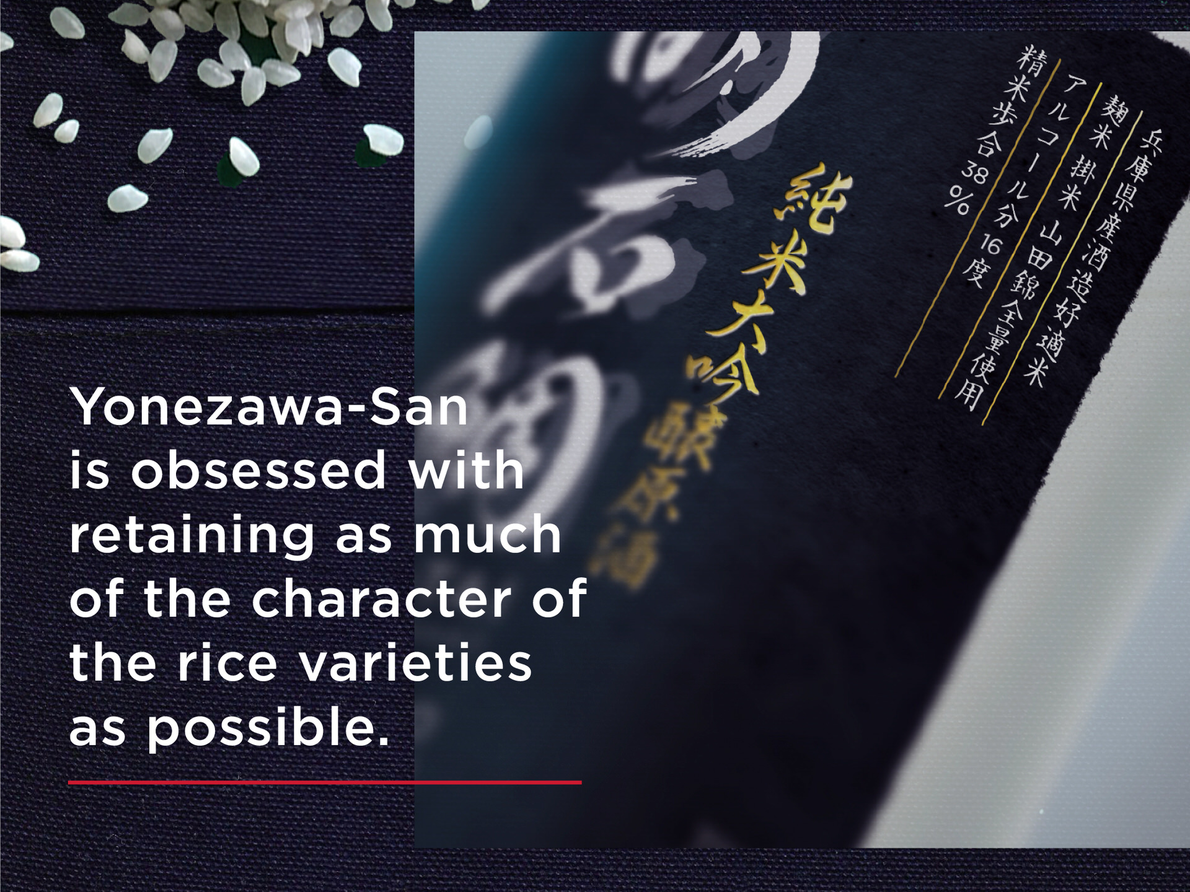
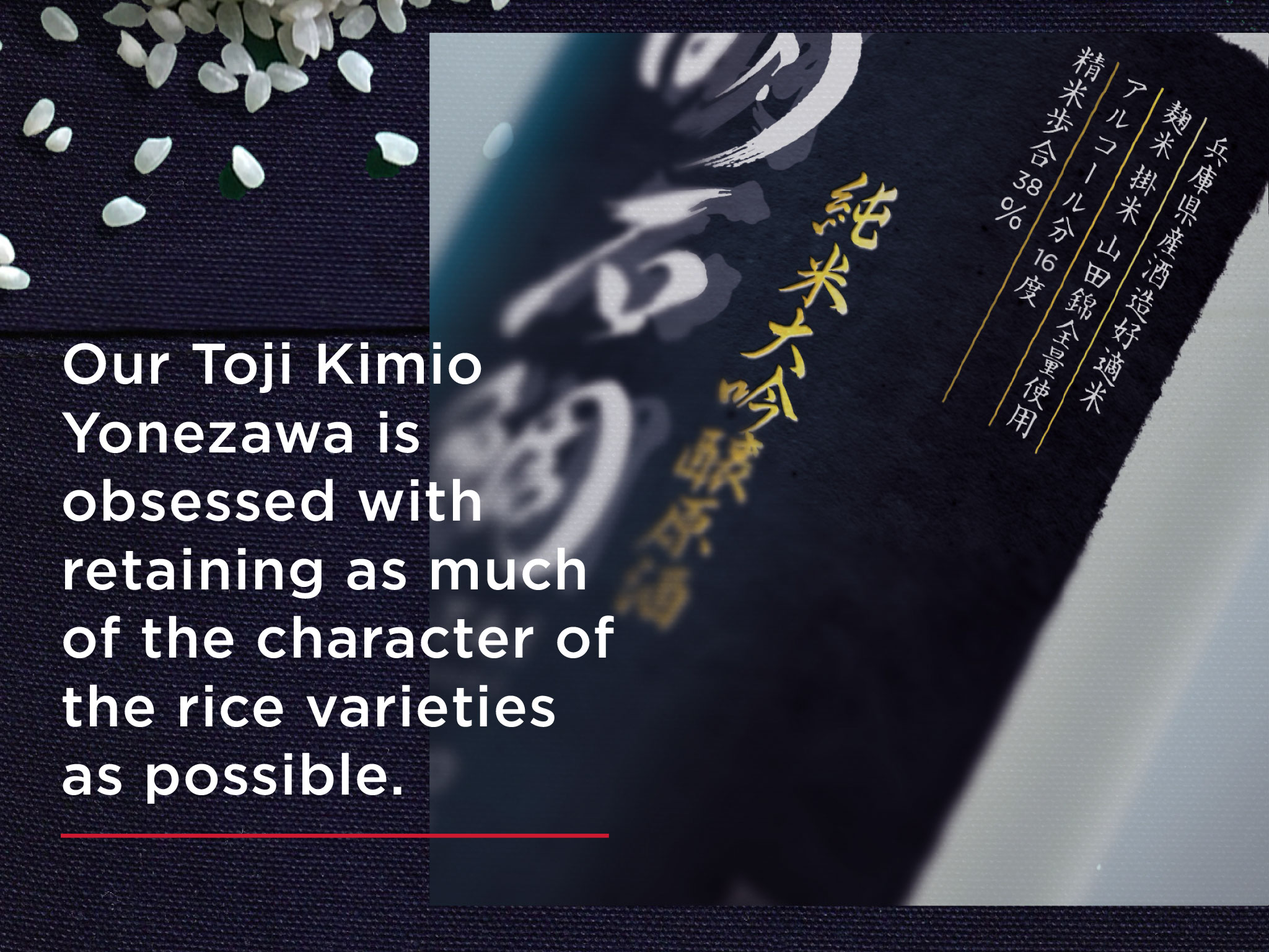
snags

Changed region(s): [[0.0, 0.0, 1.0, 1.0]]

diff --git a/index.html b/index.html
@@ -179,7 +179,7 @@
             <hr>
           </header>
           <div class="section-body">
-            <p>Akashi-Tai is the best expression of everything we believe in. A true artisan sake, handmade in small batches by our Toji (master brewer) Yonezawa-san and his close team of trusted craftsmen. We brew using traditional methods, and only with the highest quality, locally produced ingredients. Most notably the rice and the water, both of which Hyogo is renowned for throughout Japan and the wider sake world.</p>
+            <p>Akashi-Tai is the best expression of everything we believe in. A true artisan sake, handmade in small batches by our Toji (master brewer) Kimio Yonezawa and his close team of trusted craftsmen. We brew using traditional methods, and only with the highest quality, locally produced ingredients. Most notably the rice and the water, both of which Hyogo is renowned for throughout Japan and the wider sake world.</p>
             <p>It is the embodiment of Akashi Sake Brewery’s spirit, and a prime example of characterful sake from Hyogo – the birthplace of sake.</p>
           </div>
         </section>

diff --git a/assets/scss/components/_carousel.scss b/assets/scss/components/_carousel.scss
@@ -159,10 +159,7 @@
     position: relative;
 
     display: inline-block;
-    border-radius: $dots-size;
-    overflow: hidden;
-    width: $dots-size;
-    height: $dots-size;
+
     margin: 0 5px;
     padding: 0;
 
@@ -173,6 +170,7 @@
     font-size: 0;
     line-height: 0;
     display: block;
+    border-radius: $dots-size;
     width: $dots-size;
     height: $dots-size;
     padding: 5px;

diff --git a/assets/css/styles.css b/assets/css/styles.css
@@ -503,10 +503,6 @@ figcaption {
 .slick-dots li {
   position: relative;
   display: inline-block;
-  border-radius: 10px;
-  overflow: hidden;
-  width: 10px;
-  height: 10px;
   margin: 0 5px;
   padding: 0;
   cursor: pointer; }
@@ -515,6 +511,7 @@ figcaption {
   font-size: 0;
   line-height: 0;
   display: block;
+  border-radius: 10px;
   width: 10px;
   height: 10px;
   padding: 5px;
